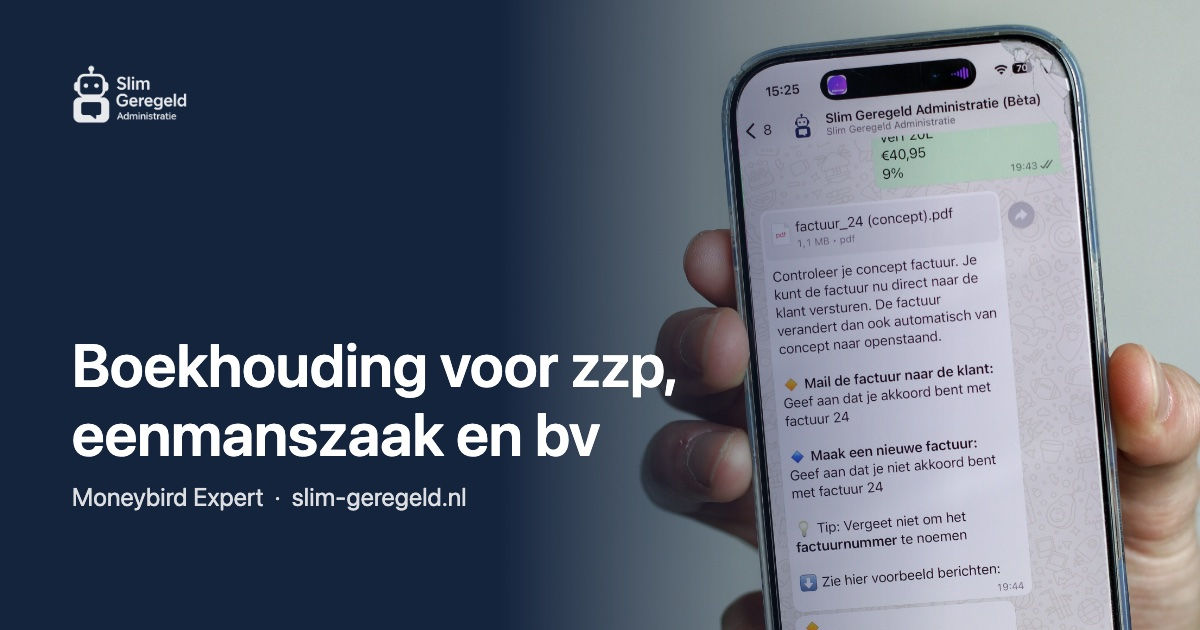
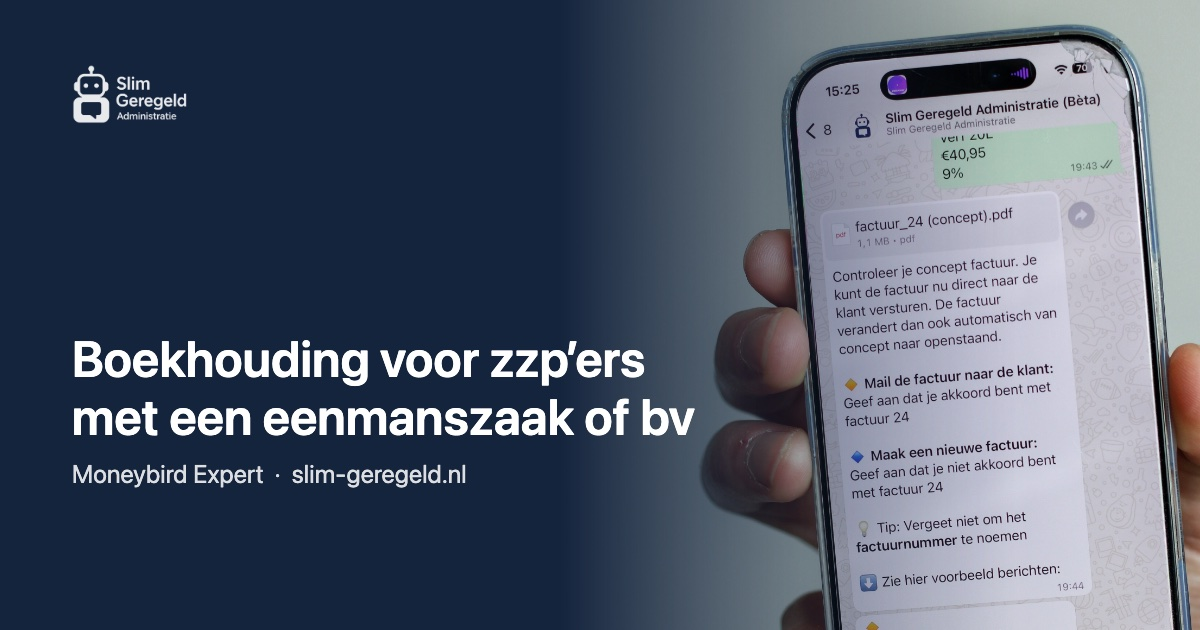
Volledige Service: financieel jaaroverzicht in plaats van jaarrekening; kaarttekst eenmanszaak of bv
De jaarrekening hoort bij de bv (maatwerk). Het pakket van 95 euro levert een
financieel jaaroverzicht. Aangepast in de prijskaarten, de branchelandingen,
paginas.json, de blogvoet en auteurstekst, de Offer-structured data en het
sjabloon. De og-afbeelding zegt nu 'Boekhouding voor zzp'ers met een
eenmanszaak of bv'.

Changed region(s): [[0.0617, 0.0, 1.0, 1.0], [0.4625, 0.8444, 0.555, 1.0]]

diff --git a/index.html b/index.html
@@ -29,30 +29,30 @@
     
     <meta name="viewport" content="width=device-width, initial-scale=1.0" />
     <title>Boekhouder voor zzp'ers | €95 p/m | Slim Geregeld</title>
-    <meta name="description" content="Boekhouding, btw-aangifte en jaarrekening voor zzp'ers en kleine ondernemers, met persoonlijk contact en een WhatsApp-chatbot. 30 dagen gratis proberen." />
+    <meta name="description" content="Boekhouding, btw-aangifte en financieel jaaroverzicht voor zzp'ers en kleine ondernemers, met persoonlijk contact en een WhatsApp-chatbot. 30 dagen gratis proberen." />
     
     <!-- Open Graph / Facebook -->
     <meta property="og:type" content="website" />
     <meta property="og:url" content="https://slim-geregeld.nl/" />
     <meta property="og:title" content="Boekhouder voor zzp'ers | €95 p/m | Slim Geregeld" />
-    <meta property="og:description" content="Boekhouding, btw-aangifte en jaarrekening voor zzp'ers en kleine ondernemers, met persoonlijk contact en een WhatsApp-chatbot. 30 dagen gratis proberen." />
+    <meta property="og:description" content="Boekhouding, btw-aangifte en financieel jaaroverzicht voor zzp'ers en kleine ondernemers, met persoonlijk contact en een WhatsApp-chatbot. 30 dagen gratis proberen." />
     <meta property="og:image" content="https://slim-geregeld.nl/og-slim-geregeld.jpg" />
     <meta property="og:image:width" content="1200" />
     <meta property="og:image:height" content="630" />
-    <meta property="og:image:alt" content="Slim Geregeld Administratie: boekhouding voor zzp, eenmanszaak en bv" />
+    <meta property="og:image:alt" content="Slim Geregeld Administratie: boekhouding voor zzp’ers met een eenmanszaak of bv" />
     
     <!-- Twitter -->
     <meta name="twitter:card" content="summary_large_image" />
     <meta name="twitter:url" content="https://slim-geregeld.nl/" />
     <meta name="twitter:title" content="Boekhouder voor zzp'ers | €95 p/m | Slim Geregeld" />
-    <meta name="twitter:description" content="Boekhouding, btw-aangifte en jaarrekening voor zzp'ers en kleine ondernemers, met persoonlijk contact en een WhatsApp-chatbot. 30 dagen gratis proberen." />
+    <meta name="twitter:description" content="Boekhouding, btw-aangifte en financieel jaaroverzicht voor zzp'ers en kleine ondernemers, met persoonlijk contact en een WhatsApp-chatbot. 30 dagen gratis proberen." />
     <meta name="twitter:image" content="https://slim-geregeld.nl/og-slim-geregeld.jpg" />
     
     <!-- LinkedIn (via Open Graph, eigen meta-tags zijn optioneel) -->
     <meta property="linkedin:card" content="summary_large_image" />
     <meta property="linkedin:url" content="https://slim-geregeld.nl/" />
     <meta property="linkedin:title" content="Boekhouder voor zzp'ers | €95 p/m | Slim Geregeld" />
-    <meta property="linkedin:description" content="Boekhouding, btw-aangifte en jaarrekening voor zzp'ers en kleine ondernemers, met persoonlijk contact en een WhatsApp-chatbot. 30 dagen gratis proberen." />
+    <meta property="linkedin:description" content="Boekhouding, btw-aangifte en financieel jaaroverzicht voor zzp'ers en kleine ondernemers, met persoonlijk contact en een WhatsApp-chatbot. 30 dagen gratis proberen." />
     <meta property="linkedin:image" content="https://slim-geregeld.nl/og-slim-geregeld.jpg" />
   </head>
   <body>

diff --git a/src/components/PersoonlijkLanding.tsx b/src/components/PersoonlijkLanding.tsx
@@ -111,7 +111,7 @@ const PersoonlijkLanding = () => {
         "24/7 vragen beantwoorden",
         "Klanten beheer",
         "BTW-aangifte voor dienstverlening",
-        "Jaarrekening",
+        "Financieel jaaroverzicht",
         "Persoonlijk contact met Kyle",
         "Dienstverlening aftrekposten optimalisatie"
       ],

diff --git a/src/components/BouwLanding.tsx b/src/components/BouwLanding.tsx
@@ -111,7 +111,7 @@ const BouwLanding = () => {
         "24/7 vragen beantwoorden",
         "Klanten beheer",
         "BTW-aangifte voor bouw & installatie",
-        "Jaarrekening",
+        "Financieel jaaroverzicht",
         "Persoonlijk contact met Kyle",
         "Bouw & installatie aftrekposten optimalisatie"
       ],

diff --git a/src/components/CreatiefLanding.tsx b/src/components/CreatiefLanding.tsx
@@ -111,7 +111,7 @@ const CreatiefLanding = () => {
         "24/7 vragen beantwoorden",
         "Klanten beheer",
         "BTW-aangifte voor creatieve sector",
-        "Jaarrekening",
+        "Financieel jaaroverzicht",
         "Persoonlijk contact met Kyle",
         "Creatieve aftrekposten optimalisatie"
       ],

diff --git a/src/components/EcommerceLanding.tsx b/src/components/EcommerceLanding.tsx
@@ -111,7 +111,7 @@ const EcommerceLanding = () => {
         "24/7 vragen beantwoorden",
         "Klanten beheer",
         "BTW-aangifte voor e-commerce",
-        "Jaarrekening",
+        "Financieel jaaroverzicht",
         "Persoonlijk contact met Kyle",
         "E-commerce aftrekposten optimalisatie"
       ],

diff --git a/src/components/TechLanding.tsx b/src/components/TechLanding.tsx
@@ -111,7 +111,7 @@ const TechLanding = () => {
         "24/7 vragen beantwoorden",
         "Klanten beheer",
         "BTW-aangifte voor tech sector",
-        "Jaarrekening",
+        "Financieel jaaroverzicht",
         "Persoonlijk contact met Kyle",
         "Tech aftrekposten optimalisatie"
       ],

diff --git a/src/components/Pricing.tsx b/src/components/Pricing.tsx
@@ -57,7 +57,7 @@ const Pricing = () => {
         "24/7 vragen beantwoorden",
         "Klanten beheer",
         "BTW-aangifte",
-        "Jaarrekening",
+        "Financieel jaaroverzicht",
         "Persoonlijk contact met Kyle"
       ],
       buttonText: "Start gratis proef",
